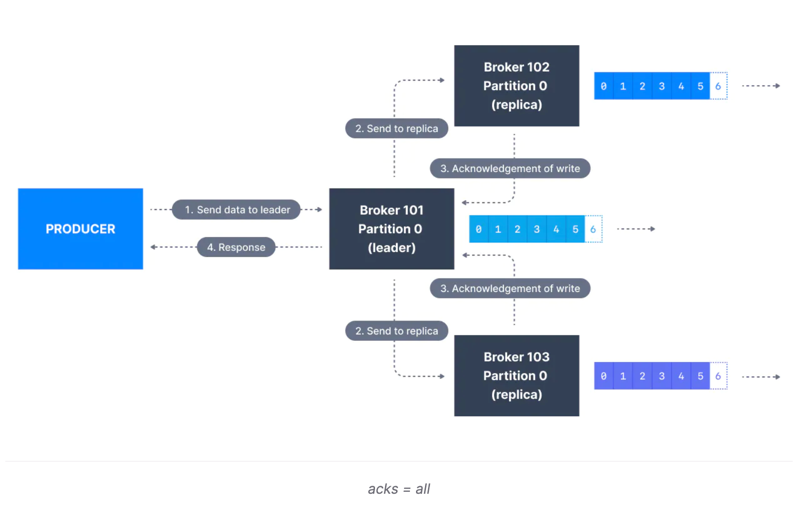
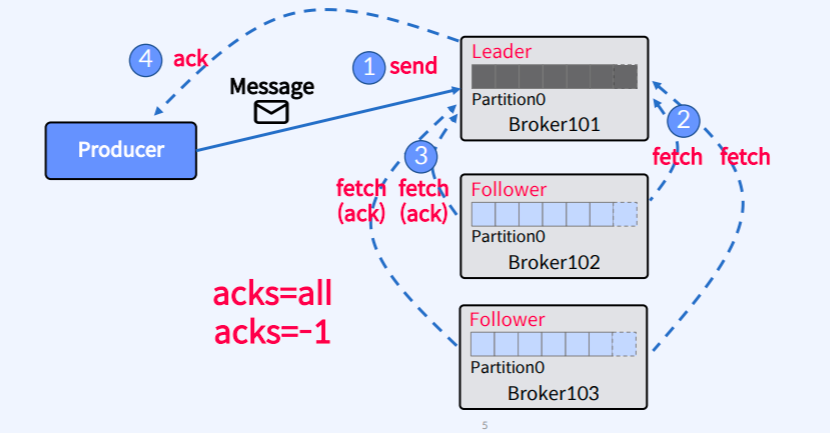
kafka > consumer 정리완료

diff --git a/kafka/README.md b/kafka/README.md
@@ -5,6 +5,7 @@
 - https://kafka.apache.org/documentation
 - https://docs.confluent.io/kafka/introduction.html
 - https://www.conduktor.io/kafka/
+- https://velog.io/@hyun6ik/series/Apache-Kafka
 - https://github.com/kafkakru/meetup/tree/master/conference/1st-conference
 - https://www.popit.kr/author/peter5236
 - https://bysssss.tistory.com/46
@@ -123,6 +124,8 @@ replication.factor 에 설정된 수치만큼 replication 이 되고, out-of-syn
 [Controller Broker](https://www.slideshare.net/ConfluentInc/a-deep-dive-into-kafka-controller) 는 브로커 중 하나가 임의로 선정 됩니다.
 
 - 목적: (브로커) 장애시 해당 브로커에 속하던 `파티션 리더 선출`
+  - broker (node) 는 controller 와 session 을 유지해야 합니다
+  - follower 는 주기적으로 leader 의 데이터를 replicate 해야합니다 (not too far behind)
 - 플로우: ISR 에서 raft 를 통해 리더를 선출합니다
 
 ### Coordinator
@@ -163,10 +166,10 @@ replication.factor 에 설정된 수치만큼 replication 이 되고, out-of-syn
   - exactly-once 를 위해 사용하는 옵션
 - max.in.flight.requests.per.connection
   - 하나의 커넥션에서 ACK 없이 전송할 수 있는 요청수 (기본값: 5)
-
-acks=all 은 `fellow partition` 이 모두 ack 를 리더파티션에 보내면 -> 리더 파티션이 producer 에 OK 를 응답합니다
-
-<img src='3-2.png' width='75%'>
+- max.block.ms
+  - producer#send 시 메시지를 저장하는 Buffer 할당까지 대기하는 시간
+- batch.size(64kb)/linger.ms(10ms)
+  - batch 에서 message 를 보내기까지의 size, timeout
 
 ### 전송방식
 
@@ -178,31 +181,47 @@ acks=all 은 `fellow partition` 이 모두 ack 를 리더파티션에 보내면 
   - PID (producerID) & sequence 의 조합
   - `enable.idempotence=true`
 
+### Acks
+
+acks=all 은 `fellow partition` 이 모두 ack 를 리더파티션에 보내면 -> 리더 파티션이 producer 에 OK 를 응답합니다
+
+<img src='3-2.png' width='75%'>
+
+### Delivery timeout
+
+max.block.ms 이후 구간부터 `develiry.timeout.ms` 구간 입니다 
+
+<img src='3-3.png' width='75%'>
+
+### 순서보장  
+
+`max.in.flight.requests.per.connection (default: 5)` 의 설정에 따라 batch 로 보내진 메세지중 1개가 실패한 경우 retry 하지만 그로인해 메세지의 순서가 변경 될 수 있습니다.
+
+`enable.idempotence=true` 로 설정한경우 batch 단위로 성공/실패 처리하므로 순서 보장이 가능합니다
+
 ## Consumer
 
-메세지를 소비하는 단위 입니다.
+메세지를 수신하는 단위 입니다.
 
-### fetch 흐름
+### 구성요소
 
-<img src='5.png' width='75%'>
+<img src='4.png' width='75%'>
 
-- fetcher
-- coordinator
-- assigner
+### 옵션
 
-// TODO - 각 kafka options 의미 설명
+- group.id
+  - consumer group 의 식별자 입니다. 동일 그룹내의 정보는 공유됩니다
+- enable.auto.commit
+  - 백그라운드로 오프셋을 커밋합니다 (periodically)
+- isolation.level
+  - read_uncommitted, read_committed
+  - read_committed 은 (producer 에서) 트랜잭션 commit 된 메세지만 가져갑니다
 
 ### Consumer Group
 
-consumer 는 특정 consumer-group 에 속하고, 그룹은 group-id 로 구분됩니다. 컨슈머그룹은 subscribe 하는 파티션의 offsets 을 `__consumer__offsets` 토픽으로 관리합니다.
-
-- consumer-group:partition:offsets 으로 관리
-
-### Rebalancing
-
-그룹안에서 Consumer 추가/삭제시 rebalancing 발생
-
-- 리밸런싱이 일어나는 동안은 STW
+- consumer 는 특정 consumer-group 에 속하고 그룹은 group-id 로 구분됩니다
+- 컨슈머그룹은 subscribe 하는 파티션의 offsets 을 `__consumer_offsets` 토픽으로 관리합니다.
+- 그룹에 consumer 추가/삭제시 리밸런싱이 발생하고 그 동안은 STW 입니다
 
 ## Advanced
 
